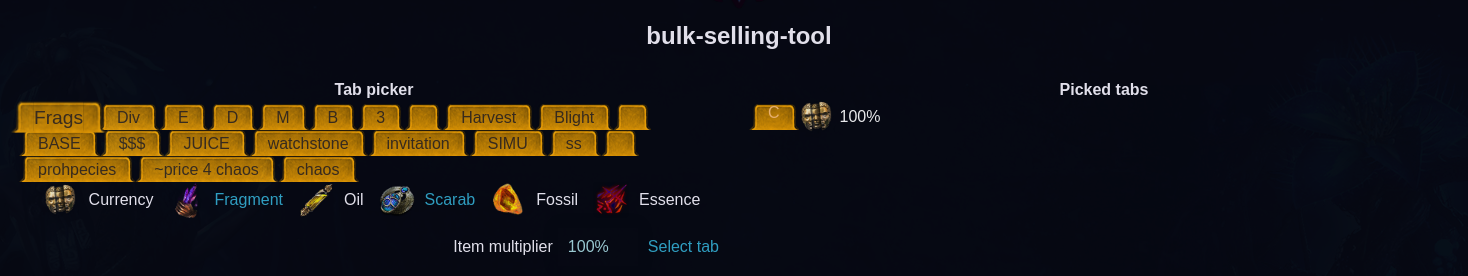
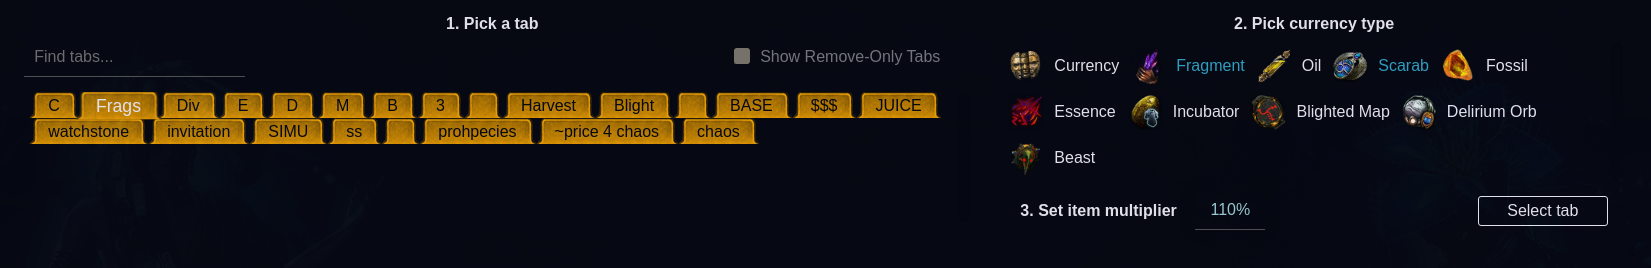
updated guide

diff --git a/src/components/MainInterface/Guide.tsx b/src/components/MainInterface/Guide.tsx
@@ -3,96 +3,83 @@ import { FlexWrap } from "../baseStyles";
 import Guide1 from "../../assets/Guide1.png";
 import Guide2 from "../../assets/Guide2.png";
 import Guide3 from "../../assets/Guide3.png";
-
-const Wrapper = styled.div`
-  width: 75%;
-  height: 75%;
-  display: flex;
-  flex-direction: column;
-  background: ${(props) => props.theme.colors.bg};
-  box-shadow: 4px 5px 52px rgba(0, 0, 0, 0.8);
-  -webkit-box-shadow: 4px 5px 52px rgba(0, 0, 0, 0.8);
-  -moz-box-shadow: 4px 5px 52px rgba(0, 0, 0, 0.8);
-  padding: 25px;
-  margin: 55px 0px 10px 0px;
-  border-radius: 15px;
-  opacity: 0.9;
-  border: 3px solid ${(props) => props.theme.colors.fg2};
-`;
-
-const Header = styled.h2`
-  margin: 10px 0px;
-  text-align: center;
-  color: ${(props) => props.theme.colors.text};
-  font-size: ${(props) => props.theme.fontL};
-`;
-
-const P = styled(FlexWrap)`
-  font-size: 18px;
-  color: ${(props) => props.theme.colors.text};
-  margin: 0px 5px;
-  align-items: flex-start;
-`;
+import { useAuth } from "../../api/oauth/AuthContext";
 
 const Guide = () => {
+  const { authService } = useAuth();
   return (
     <Wrapper>
-      <Header>TFT Bulk Selling Tool</Header>
       <Text>
-        <P>To start using the app log in with your Path of Exile account.</P>
-        <div style={{ display: "flex" }}>
-          <div style={{ width: "30%", padding: "5px 0px" }}>
-            <P style={{ padding: "25px 0px" }}>
-              Then you can pick a stash tab and currency types which you want to
-              be associated with it. After that select your % multiplier which
-              will be added to each item in a picked stash tab. All there is
-              left to do is to click "Select Tab" and all you items will be
-              listed below.
-            </P>
-          </div>
-          <div style={{ width: "70%", padding: "5px 0px" }}>
-            <img src={Guide1} style={{ width: "100%", height: "100%" }} />
-          </div>
-        </div>
+        <P>
+          To start using the app{" "}
+          <Highlight
+            onClick={() => authService.authorize()}
+            style={{ cursor: "pointer" }}
+          >
+            Log in
+          </Highlight>{" "}
+          with your Path of Exile account.
+        </P>
+        <P>
+          Then select a tab by clicking on it and pick currency type filter
+          which you want to be applied to that tab. Optionally you can change
+          the default multiplier which will adjust the default price fetched
+          from <Highlight href="https://poe.ninja/">poe.ninja</Highlight>. Now
+          all that is left to do is click the <Highlight>Select tab</Highlight>{" "}
+          button.
+        </P>
 
         <div style={{ display: "flex" }}>
-          <div style={{ width: "70%", padding: "5px 0px" }}>
-            <img src={Guide2} style={{ width: "100%", height: "100%" }} />
-          </div>
-          <div style={{ width: "30%", padding: "5px 0px" }}>
-            <P style={{ padding: "25px 0px" }}>
-              You can select or deselect each listed item, change the chaos
-              price of a single item and multiplier. All prices will be
-              automatically updated.{" "}
-            </P>
-            <P>
-              Above the list of items you are provided with a filter for easier
-              finding of items and the default exalted orb price on the right.
-              This price can also be changed and all the prices will get
-              updated.
-            </P>
-          </div>
+          <P style={{ width: "20%" }}>
+            <br />
+            You can <Highlight>add</Highlight> multiple tabs.
+            <br />
+            <br />
+            You can select <Highlight>multiple</Highlight> currency types.
+            <br />
+            <br />
+            Show or hide <Highlight>Remove-Only</Highlight> tabs.
+            <br />
+            <br />
+            <Highlight>Find</Highlight> a tab by its name.
+            <br />
+          </P>
+          <Img src={Guide1} alt="guide1" />
         </div>
 
+        <P>
+          Now all items according to the currency types you chose will be
+          displayed and priced below. You can manually adjust
+          <Highlight> Ex Price</Highlight>,<Highlight> multiplier</Highlight>{" "}
+          and
+          <Highlight> single item value</Highlight>.
+        </P>
         <div style={{ display: "flex" }}>
-          <div style={{ width: "40%", padding: "5px 0px" }}>
-            <P style={{ padding: "25px 0px" }}>
-              Now the last thing to do is click Generate Discord Message to have
-              a pastable message in your clipboard!. Due to Discord limitations,
-              you will have to press CTRL+V twice - first to paste the image and
-              second to pase the header message.
-            </P>
-          </div>
-          <div style={{ width: "60%", padding: "5px 0px" }}>
-            <img
-              src={Guide3}
-              style={{
-                width: "100%",
-                height: "50%",
-                padding: "50px 0px 0px 0px",
-              }}
-            />
-          </div>
+          <Img src={Guide2} alt="guide2" />
+
+          <P style={{ width: "35%" }}>
+            <br />
+            You can deselect a tab by clicking on its name in the{" "}
+            <Highlight>Picked Tabs</Highlight> section.
+            <br />
+            <br />
+            It is also possible to <Highlight>find</Highlight> an item by its
+            name.
+            <br />
+            <br />
+            To generate the image press{" "}
+            <Highlight>Generate discord message!</Highlight> button and it will
+            be in you clipboard with a{" "}
+            <Highlight>discord header message</Highlight> and because of that
+            you need to paste it twice in discord chat.
+            <br />
+            <br />
+            Generated message will contain a text header with{" "}
+            <Highlight>currency types</Highlight>,{" "}
+            <Highlight>total value</Highlight> of your items and generated image
+            of all items with their <Highlight>count</Highlight>,{" "}
+            <Highlight>price</Highlight> and <Highlight>total value</Highlight>.
+          </P>
         </div>
       </Text>
     </Wrapper>
@@ -101,8 +88,42 @@ const Guide = () => {
 
 export default Guide;
 const Text = styled(FlexWrap)`
-  padding: 5px 50px;
+  padding: 5px 5px;
   align-items: flex-start;
+  justify-content: flex-start;
   flex-direction: column;
-  width: 90%;
+  width: 95%;
+  height: 100%;
+`;
+
+const Img = styled.img`
+  object-fit: contain;
+  width: 80%;
+  align-self: center;
+`;
+const Wrapper = styled(FlexWrap)`
+  flex-direction: column;
+  width: 83vw;
+  height: 83vh;
+  background: ${(props) => props.theme.colors.bg};
+  box-shadow: 4px 5px 52px rgba(0, 0, 0, 0.8);
+  -webkit-box-shadow: 4px 5px 52px rgba(0, 0, 0, 0.8);
+  -moz-box-shadow: 4px 5px 52px rgba(0, 0, 0, 0.8);
+  padding: 15px 35px;
+  margin: 20px 0px 10px 0px;
+  border-radius: 15px;
+  opacity: 0.9;
+  border: 3px solid ${(props) => props.theme.colors.fg2};
+
+  overflow-y: scroll;
+`;
+
+const P = styled.p`
+  font-size: 16px;
+  color: ${(props) => props.theme.colors.text};
+  padding: 10px 5px;
+`;
+const Highlight = styled.a`
+  font-size: 18px;
+  color: ${(props) => props.theme.colors.accent};
 `;

diff --git a/src/styled.d.ts b/src/styled.d.ts
@@ -14,6 +14,7 @@ declare module "styled-components" {
       fg2: string;
       accent: string;
       accent2: string;
+      accentDark: string;
       text: string;
     };
   }
